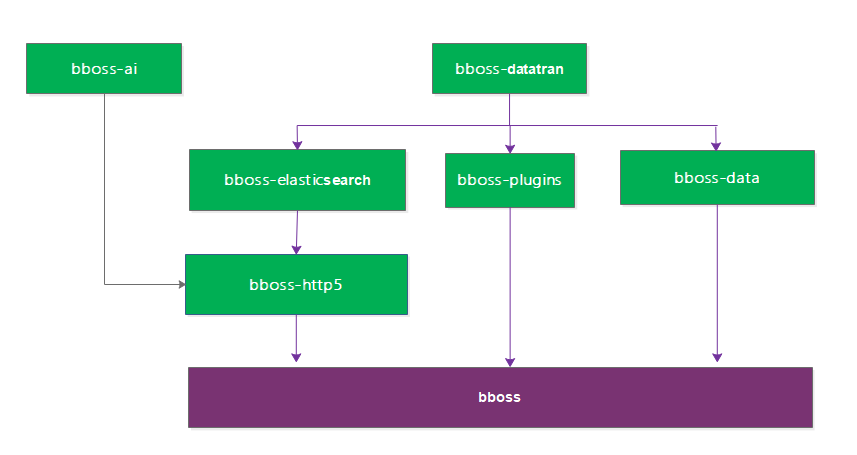
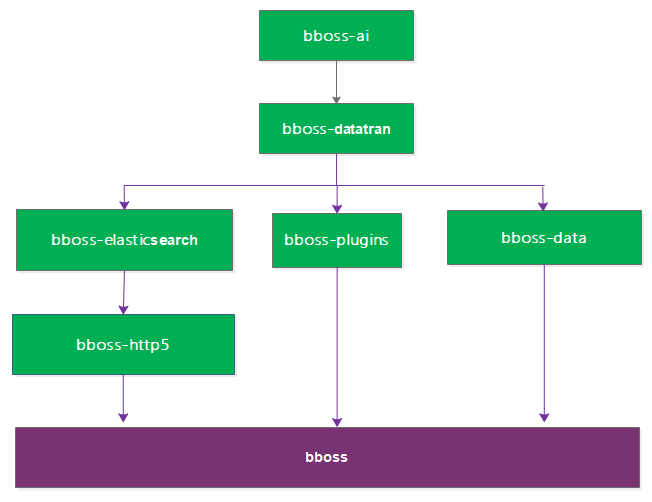
增加grep内置工具，支持linux和windows下快速检索文档内容以及统计计数，并提供使用案例

diff --git a/docs/bboss-build.md b/docs/bboss-build.md
@@ -35,10 +35,6 @@ git clone https://gitee.com/bboss/bboss-http5
 cd bboss-http5
 gradle publishToMavenLocal
 
-git clone https://gitee.com/bboss/bboss-ai
-cd bboss-ai
-gradle publishToMavenLocal
-
 git clone https://gitee.com/bboss/ bboss-plugins
 cd bboss-plugins
 gradle publishToMavenLocal
@@ -49,6 +45,10 @@ gradle publishToMavenLocal
 
 git clone https://gitee.com/bboss/bboss-elastic-tran
 cd bboss-elastic-tran
+gradle publishToMavenLocal
+
+git clone https://gitee.com/bboss/bboss-ai
+cd bboss-ai
 gradle publishToMavenLocal
 ```
 
@@ -62,7 +62,7 @@ https://gitee.com/bboss/bboot
 
 整体构建顺序如下：
 
-bboss-》bboss-data-》bboss-http5-》bboss-ai-》bboss-plugins-》bboss-elastic-》bboss-elastic-tran-》bboss-rpc-》security-》bboot
+bboss-》bboss-data-》bboss-http5-》bboss-plugins-》bboss-elastic-》bboss-elastic-tran-》bboss-ai-》bboss-rpc-》security-》bboot
 
 下面分别介绍：
 
